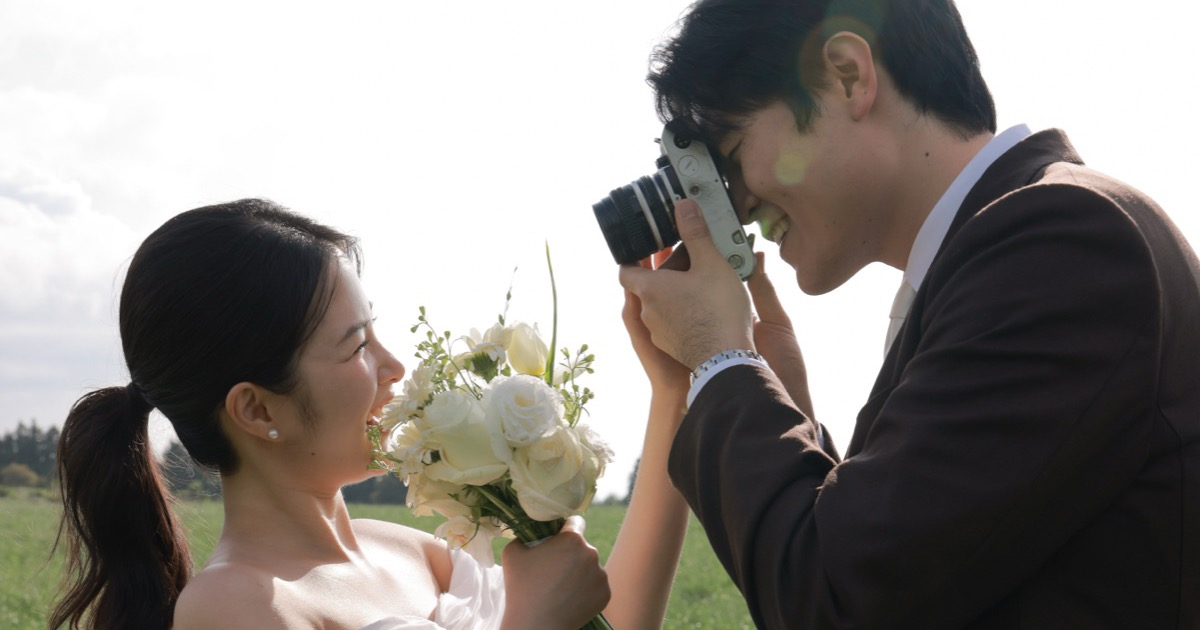
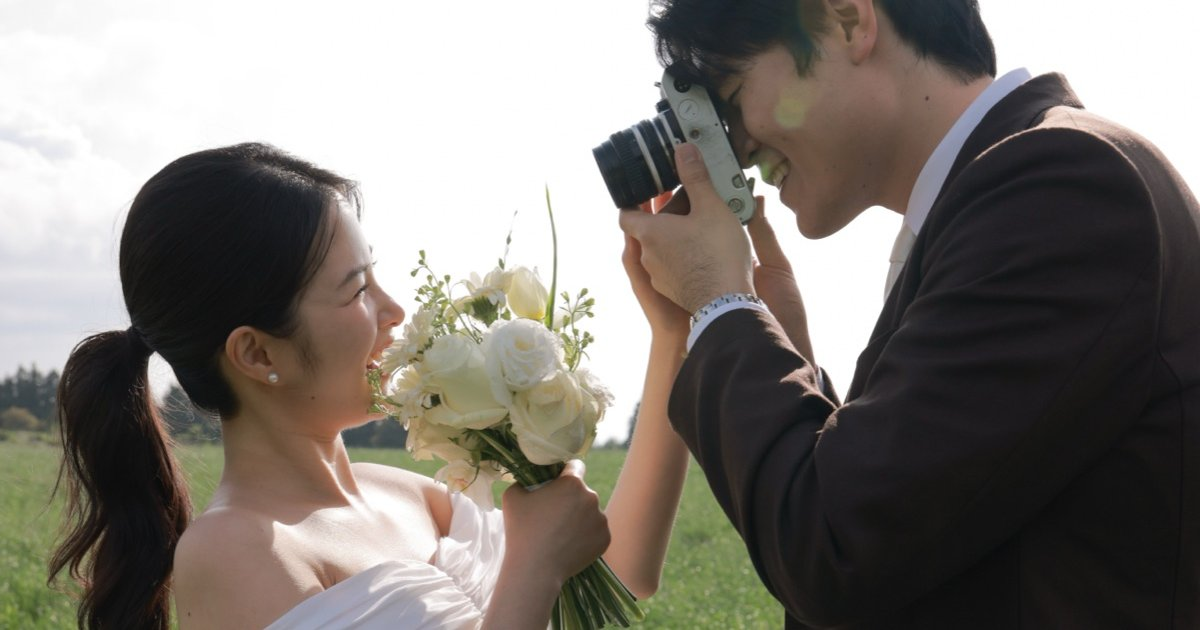
관리자 화면에서 수정 (사진 1장 추가)

diff --git a/content.js b/content.js
@@ -13,25 +13,27 @@ window.INVITATION = {
 
   /* ── 신랑 ─────────────────────────────────────────────────── */
   groom: {
-    name: "이준호",
-    givenName: "준호",          // 이름만 (남은 날짜 문구에 쓰입니다)
-    father: "○○○",
-    mother: "○○○",
+    name: "정재훈",
+    givenName: "재훈",          // 이름만 (남은 날짜 문구에 쓰입니다)
+    father: "정상호",
+    mother: "이수연",
     relation: "장남",            // 장남 · 차남 · 아들
-    intro: `묵묵히 곁을 지키는 사람
-사진 찍을 때 가장 진지해요`,
+    intro: `항상 내 편이 되어주는 사람.
+부산 상남자, 테토남이지만
+내 앞에서는 어린아이`,
     photo: "photos/groom.jpg",
   },
 
   /* ── 신부 ─────────────────────────────────────────────────── */
   bride: {
-    name: "박서윤",
-    givenName: "서윤",          // 이름만 (남은 날짜 문구에 쓰입니다)
-    father: "○○○",
-    mother: "○○○",
+    name: "전희린",
+    givenName: "희린",          // 이름만 (남은 날짜 문구에 쓰입니다)
+    father: "전동휘",
+    mother: "장성희",
     relation: "장녀",            // 장녀 · 차녀 · 딸
-    intro: `웃음이 먼저 도착하는 사람
-꽃을 좋아해요`,
+    intro: `그 누가 뭐래도 너무나도 
+예쁜 피아니스트.
+내 앞에서는 말괄량이 삐삐`,
     photo: "photos/bride.jpg",
   },
 
@@ -45,7 +47,7 @@ window.INVITATION = {
   venue: {
     name: "그랜드모먼트",
     city: "부산",
-    hall: "",                       // 홀 이름과 층. 비워 두면 표시하지 않습니다
+    hall: "6층 시그니처홀",                       // 홀 이름과 층. 비워 두면 표시하지 않습니다
     address: "부산광역시 남구 황령대로 401-9 (대연동)",
     tel: "051-922-2210",
     mapSearch: "그랜드모먼트 부산",  // 지도 버튼을 눌렀을 때 검색할 말
@@ -54,9 +56,9 @@ window.INVITATION = {
 
   /* ── 오시는 길 ────────────────────────────────────────────── */
   transport: [
-    { label: "지하철", text: "2호선 남천역 · 경성대부경대역", note: "황령터널 방면 도보 약 15분, 택시 기본요금 거리" },
-    { label: "셔틀", text: "역 ↔ 예식장 셔틀 운행", note: "출발지·시간 확인 후 기입" },
-    { label: "주차", text: "예식장 주차장 846면 무료", note: "" },
+    { label: "지하철", text: "2호선 남천역", note: "황령터널 방면 도보 약 15분, 택시 기본요금 거리" },
+    { label: "셔틀", text: "남천역 ↔ 예식장 셔틀 운행", note: "매시 05분부터 15분 간격으로 셔틀 버스 운행" },
+    { label: "주차", text: "예식장 주차장 3시간 무료", note: "" },
   ],
 
   /* ── 첫 화면 ──────────────────────────────────────────────── */
@@ -64,22 +66,22 @@ window.INVITATION = {
     photo: "photos/cover.jpg",
     lettering: "We're getting married",
     label: "Wedding Invitation",
-    focus: "48% 45%",             // 사진이 잘릴 때의 중심점 "가로% 세로%"
+    focus: "37% 43%",             // 사진이 잘릴 때의 중심점 "가로% 세로%"
   },
 
   /* ── 인사말 ───────────────────────────────────────────────── */
   greeting: {
     title: "소중한 분들을 초대합니다",
-    quote: `"햇살 좋은 들판에서 시작된 마음이
-겨울의 끝에서 약속이 됩니다"`,
-    quoteSource: "",
-    message: `서로가 마주 보며 다져온 사랑을
-이제 함께 한 곳을 바라보며
-걸어가고자 합니다.
+    quote: `"마음을 같이 하여 같은 사랑을 가지고
+뜻을 합하며 한 마음을 품어"`,
+    quoteSource: "빌립보서 2장 2절",
+    message: `자신보다 소중한 사람을 만나
+한 마음으로 사랑하며 
+같은 곳을 향하려 합니다.
 
-저희 두 사람이 사랑의 이름으로
-지켜나갈 수 있도록
-앞날을 축복해 주시면 감사하겠습니다.`,
+저희 두 사람의 첫 걸음에 
+함께하여 축복해주시면 
+더없는 기쁨으로 간직하겠습니다.`,
   },
 
   /* ── 갤러리 (위에서부터 순서대로 필름에 들어갑니다) ───────── */
@@ -121,18 +123,21 @@ window.INVITATION = {
   accounts: {
     title: "마음 전하실 곳",
     groomSide: [
-      { who: "신랑 이준호", bank: "국민", number: "000000-00-000000" },
-      { who: "아버지 ○○○", bank: "신한", number: "000-000-000000" },
+      { who: "신랑 정재훈", bank: "부산은행", number: "000000-00-000000" },
+      { who: "아버지 정상호", bank: "신한", number: "000-000-000000" },
+      { who: "어머니 이수연", bank: "", number: "" },
     ],
     brideSide: [
-      { who: "신부 박서윤", bank: "카카오뱅크", number: "0000-00-0000000" },
+      { who: "신부 전희린", bank: "카카오뱅크", number: "3333-10-20-56609" },
+      { who: "아버지 전동휘", bank: "", number: "" },
+      { who: "어머니 장성희", bank: "농협은행", number: "" },
     ],
   },
 
   /* ── 공유할 때 보이는 제목과 설명 ─────────────────────────── */
   share: {
-    title: "준호 ♡ 서윤 결혼합니다",
-    description: "2027년 1월 30일 토요일 오전 11시 · 그랜드모먼트",
+    title: "재훈 ♡ 희린 결혼합니다",
+    description: "2027년 1월 30일 토요일 오전 11시 · 그랜드모먼트 6층 시그니처홀",
   },
 
   /* ── 배경음악 (mp3 파일 이름. 비워 두면 음악 버튼이 보이지 않습니다) ── */

diff --git a/index.html b/index.html
@@ -5,11 +5,11 @@
 <meta name="viewport" content="width=device-width, initial-scale=1, viewport-fit=cover">
 <!-- ▼ 카카오톡·문자에 링크를 붙였을 때 보이는 미리보기입니다.
      이름이나 날짜가 바뀌면 content.js 와 함께 아래 제목·설명도 고쳐 주세요. -->
-<title>준호 ♡ 서윤 결혼합니다</title>
-<meta name="description" content="2027년 1월 30일 토요일 오전 11시 · 그랜드모먼트">
+<title>재훈 ♡ 희린 결혼합니다</title>
+<meta name="description" content="2027년 1월 30일 토요일 오전 11시 · 그랜드모먼트 6층 시그니처홀">
 <meta property="og:type" content="website">
-<meta property="og:title" content="준호 ♡ 서윤 결혼합니다">
-<meta property="og:description" content="2027년 1월 30일 토요일 오전 11시 · 그랜드모먼트">
+<meta property="og:title" content="재훈 ♡ 희린 결혼합니다">
+<meta property="og:description" content="2027년 1월 30일 토요일 오전 11시 · 그랜드모먼트 6층 시그니처홀">
 <meta property="og:url" content="https://jj-hoon.github.io/wedding/">
 <meta property="og:image" content="https://jj-hoon.github.io/wedding/photos/og.jpg">
 <meta property="og:image:width" content="1200">
